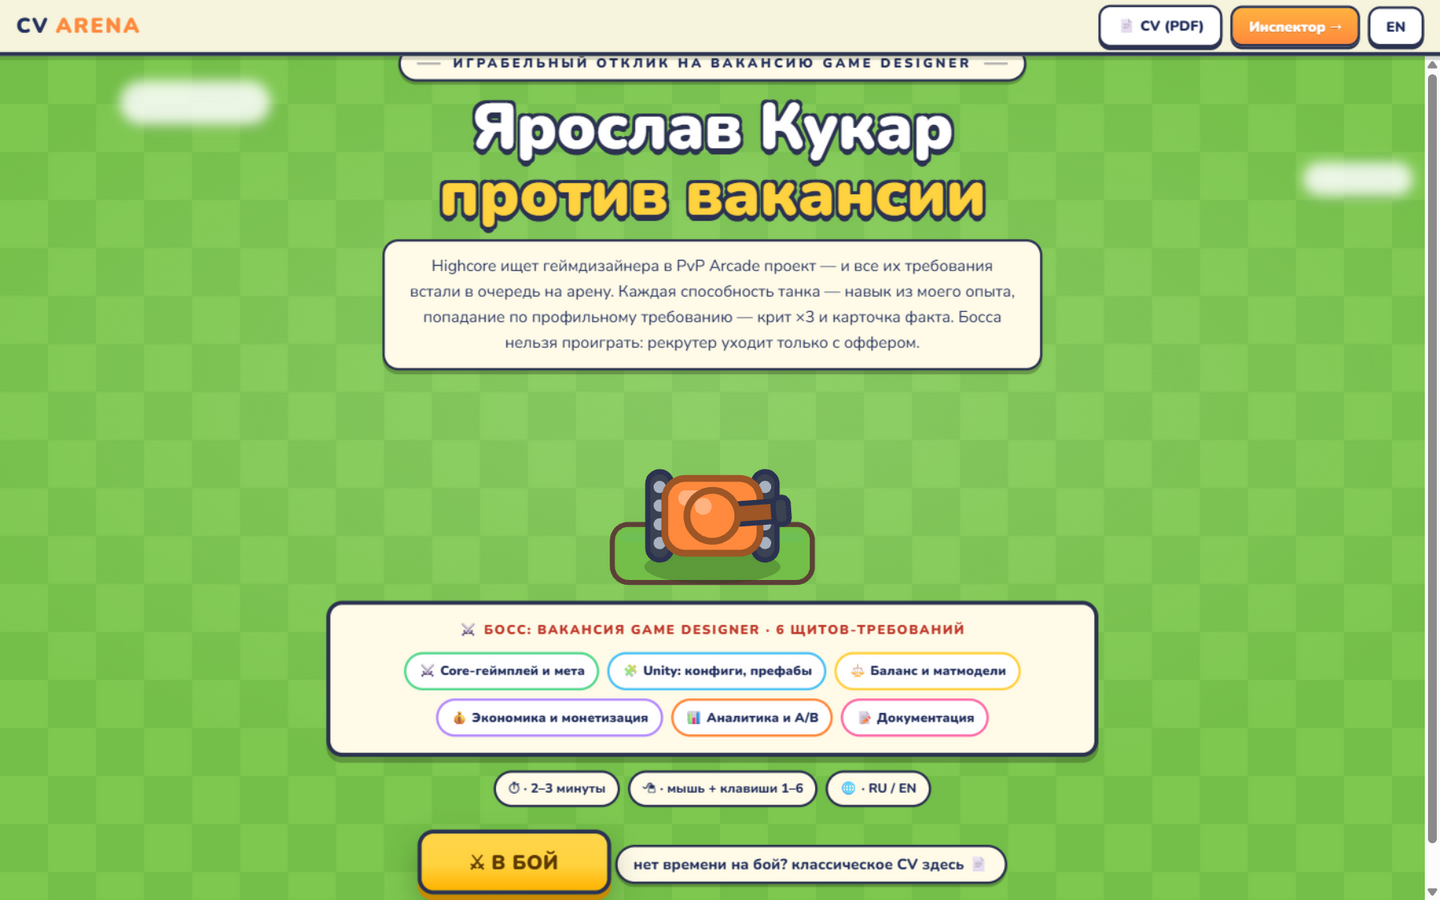
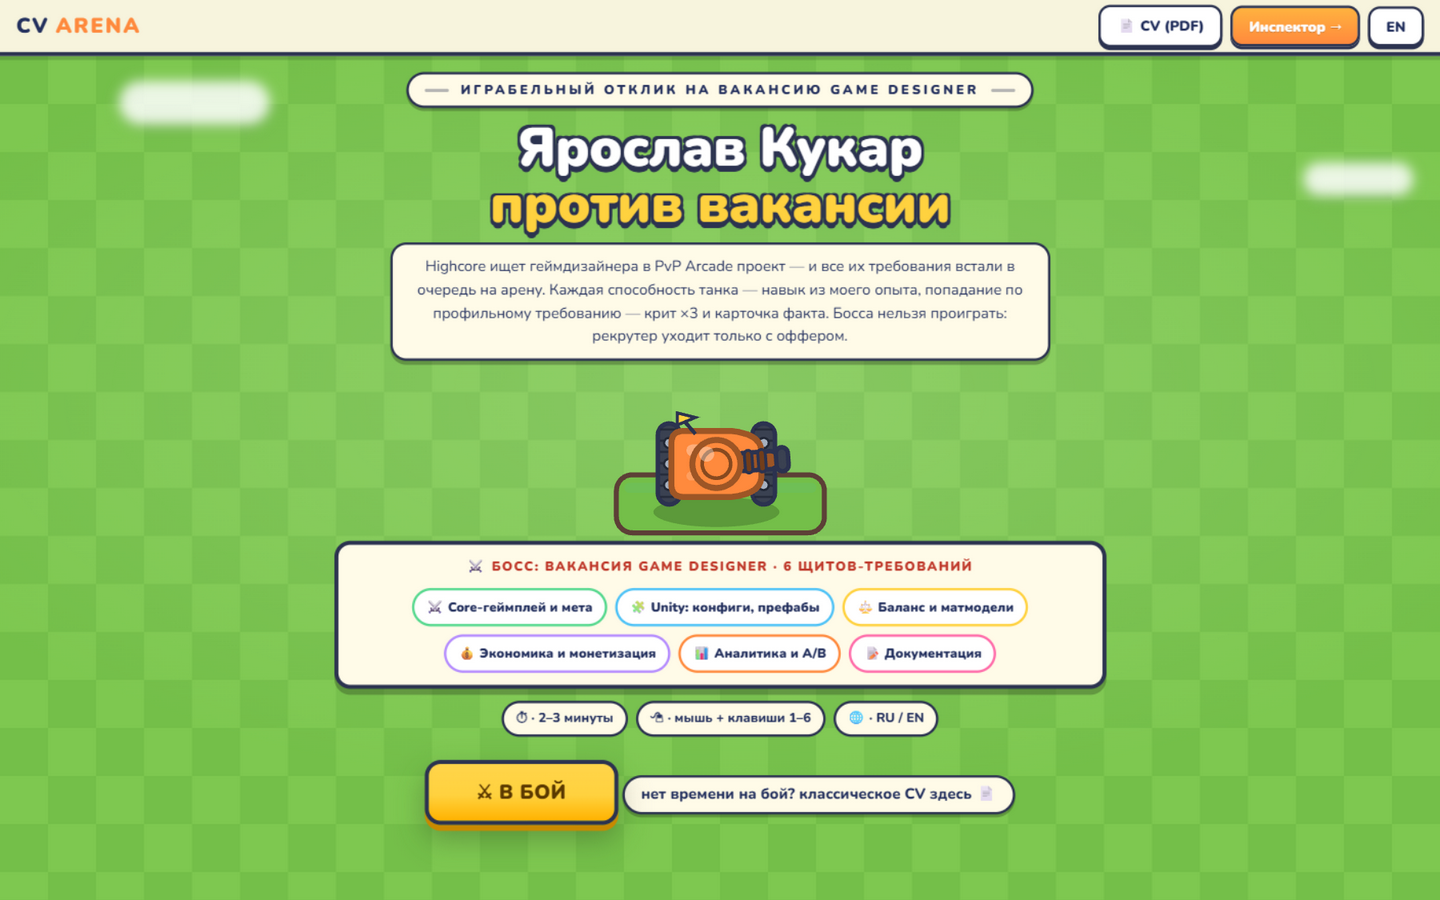
довёл читаемость: имя и хотбар целиком, обводка текста; танк с клином, флажком и гофрой

Changed region(s): [[0.2188, 0.0622, 0.7812, 1.0], [0.9688, 0.0622, 1.0, 1.0]]

diff --git a/js/game.js b/js/game.js
@@ -18,38 +18,66 @@ function shade(hex, f = 0.62) {
   return (r << 16) | (g << 8) | b;
 }
 
-// мультяшный танк в духе Tanks A Lot: толстая обводка, катки, купол-башня, морда у босса
+// мультяшный танк в духе Tanks A Lot: клиновидный нос, катки в ленте,
+// купол с кольцом, гофра ствола, флажок — и сердитая морда у босса
 export function makeTank(color, scale = 1, opts = {}) {
   const c = new Container();
   const dark = shade(color, 0.62);
+  const darker = shade(color, 0.45);
 
   const shadow = new Graphics();
-  shadow.ellipse(0, 30, 40, 10).fill({ color: 0x1e3a12, alpha: 0.28 });
+  shadow.ellipse(0, 32, 42, 10).fill({ color: 0x1e3a12, alpha: 0.28 });
   c.addChild(shadow);
 
+  // гусеницы: скруглённая лента с поперечными сегментами и катками
   const mkTread = (x) => {
     const t = new Graphics();
-    t.roundRect(x, -26, 14, 52, 7).fill({ color: 0x3b4252 }).stroke({ width: 3, color: OUTLINE });
-    for (let wy = -17; wy <= 17; wy += 11) {
-      t.circle(x + 7, wy, 3.6).fill({ color: 0xa8b2c1 });
+    t.roundRect(x, -27, 15, 54, 7.5).fill({ color: 0x3b4252 }).stroke({ width: 3, color: OUTLINE });
+    for (let wy = -23; wy <= 23; wy += 7.5) {
+      t.moveTo(x + 1.5, wy).lineTo(x + 13.5, wy).stroke({ width: 1.5, color: 0x222836, alpha: 0.8 });
+    }
+    for (let wy = -14; wy <= 14; wy += 14) {
+      t.circle(x + 7.5, wy, 3.4).fill({ color: 0xa8b2c1 }).stroke({ width: 1.5, color: 0x222836 });
     }
     return t;
   };
-  c.addChild(mkTread(-38), mkTread(24));
+  c.addChild(mkTread(-39), mkTread(24));
 
+  // корпус: тракторный нос-клин (спереди уже), задняя часть шире
   const body = new Graphics();
-  body.roundRect(-28, -22, 56, 44, 12).fill({ color }).stroke({ width: 4, color: dark });
-  body.roundRect(-20, -15, 18, 9, 4).fill({ color: 0xffffff, alpha: 0.35 });
+  body.moveTo(-30, -14);
+  body.quadraticCurveTo(-30, -22, -22, -22);
+  body.lineTo(10, -22);
+  body.quadraticCurveTo(30, -20, 30, -8);
+  body.lineTo(30, 8);
+  body.quadraticCurveTo(30, 20, 10, 22);
+  body.lineTo(-22, 22);
+  body.quadraticCurveTo(-30, 22, -30, 14);
+  body.closePath();
+  body.fill({ color }).stroke({ width: 4, color: dark });
+  body.roundRect(-20, -13, 24, 8, 4).fill({ color: 0xffffff, alpha: 0.32 });
+  body.roundRect(-20, 5, 16, 6, 3).fill({ color: 0xffffff, alpha: 0.18 });
   c.addChild(body);
+
+  // флажок на антенне — как у новичка в Tanks A Lot
+  const flag = new Graphics();
+  flag.moveTo(-14, -20).lineTo(-26, -34).stroke({ width: 2.5, color: OUTLINE });
+  flag.moveTo(-26, -34).lineTo(-14, -31).lineTo(-26, -26).closePath()
+    .fill({ color: 0xffd23f }).stroke({ width: 2, color: OUTLINE });
+  c.addChild(flag);
 
   const turret = new Container();
   const barrel = new Graphics();
-  barrel.roundRect(10, -6, 32, 12, 6).fill({ color: dark }).stroke({ width: 3, color: OUTLINE });
-  barrel.roundRect(36, -8, 9, 16, 4).fill({ color: 0x3b4252 }).stroke({ width: 3, color: OUTLINE });
+  barrel.roundRect(12, -6, 30, 12, 6).fill({ color: dark }).stroke({ width: 3, color: OUTLINE });
+  // гофра-кольца на стволе
+  barrel.roundRect(19, -7.5, 5, 15, 2.5).fill({ color: darker }).stroke({ width: 2, color: OUTLINE });
+  barrel.roundRect(28, -7.5, 5, 15, 2.5).fill({ color: darker }).stroke({ width: 2, color: OUTLINE });
+  barrel.roundRect(40, -8, 8, 16, 4).fill({ color: 0x3b4252 }).stroke({ width: 3, color: OUTLINE });
   turret.addChild(barrel);
   const dome = new Graphics();
-  dome.circle(0, 0, 15).fill({ color }).stroke({ width: 4, color: dark });
-  dome.circle(-5, -6, 5).fill({ color: 0xffffff, alpha: 0.35 });
+  dome.circle(0, 0, 16).fill({ color }).stroke({ width: 4, color: dark });
+  dome.circle(0, 0, 9.5).stroke({ width: 2.5, color: darker, alpha: 0.85 });
+  dome.circle(-6, -7, 5).fill({ color: 0xffffff, alpha: 0.35 });
   turret.addChild(dome);
   if (opts.eyes) {
     const face = new Graphics();
@@ -57,7 +85,7 @@ export function makeTank(color, scale = 1, opts = {}) {
     face.circle(6, 4, 4).fill({ color: 0xffffff }).stroke({ width: 2, color: OUTLINE });
     face.circle(-4, 5, 1.8).fill({ color: 0x1d2333 });
     face.circle(7, 5, 1.8).fill({ color: 0x1d2333 });
-    face.moveTo(-11, -3).lineTo(-2, 0).moveTo(12, -3).lineTo(3, 0).stroke({ width: 2.5, color: OUTLINE });
+    face.moveTo(-11, -4).lineTo(-2, -1).moveTo(12, -4).lineTo(3, -1).stroke({ width: 2.5, color: OUTLINE });
     turret.addChild(face);
   }
   c.addChild(turret);

diff --git a/style.css b/style.css
@@ -162,7 +162,7 @@ button { font-family: inherit; cursor: pointer; }
 
 #screen-intro {
   display: flex;
-  align-items: center;
+  align-items: flex-start;
   justify-content: center;
   background:
     radial-gradient(90% 70% at 50% 40%, rgba(255, 255, 255, 0.14), transparent 70%),
@@ -205,7 +205,9 @@ button { font-family: inherit; cursor: pointer; }
 .intro-inner {
   position: relative;
   max-width: 820px;
-  padding: 32px 24px 48px;
+  width: 100%;
+  margin: 0 auto;
+  padding: 16px 24px 40px;
   text-align: center;
   z-index: 1;
 }
@@ -237,12 +239,12 @@ button { font-family: inherit; cursor: pointer; }
 }
 
 .intro-title {
-  font-size: clamp(36px, 6vw, 64px);
+  font-size: clamp(30px, 5vw, 54px);
   font-weight: 900;
   line-height: 1.04;
   letter-spacing: -0.5px;
   color: #ffffff;
-  margin-bottom: 12px;
+  margin-bottom: 10px;
   text-shadow:
     -3px -3px 0 var(--ink), 3px -3px 0 var(--ink),
     -3px 3px 0 var(--ink), 3px 3px 0 var(--ink),
@@ -252,25 +254,26 @@ button { font-family: inherit; cursor: pointer; }
 
 .intro-sub {
   color: var(--ink-soft);
-  font-size: 16px;
-  line-height: 1.6;
+  font-size: 15px;
+  line-height: 1.55;
   max-width: 660px;
-  margin: 0 auto 16px;
+  margin: 0 auto 12px;
   background: var(--cream);
   border: 3px solid var(--ink);
   border-radius: var(--r-lg);
-  padding: 12px 20px;
+  padding: 10px 18px;
   box-shadow: 0 4px 0 rgba(30, 40, 20, 0.3);
 }
 
-.intro-tank { display: flex; justify-content: center; margin: 0 0 4px; }
+.intro-tank { display: flex; justify-content: center; margin: 0 0 0; }
+.intro-tank canvas { display: block; }
 
 .intro-boss {
   background: var(--cream);
   border: 4px solid var(--ink);
   border-radius: var(--r-lg);
-  padding: 16px 20px;
-  margin-bottom: 14px;
+  padding: 12px 16px;
+  margin-bottom: 12px;
   box-shadow: 0 6px 0 rgba(30, 40, 20, 0.3);
 }
 
@@ -461,18 +464,23 @@ button { font-family: inherit; cursor: pointer; }
 
 #hotbar {
   position: absolute;
-  left: 50%;
-  transform: translateX(-50%);
+  left: 0;
+  right: 0;
+  margin: 0 auto;
+  width: max-content;
+  max-width: calc(100vw - 24px);
   bottom: 16px;
   display: flex;
   gap: 8px;
+  flex-wrap: wrap;
+  justify-content: center;
   z-index: var(--z-hud);
 }
 
 .ability {
   position: relative;
-  width: 104px;
-  padding: 8px 8px 8px;
+  min-width: 96px;
+  padding: 8px 12px 8px;
   border-radius: var(--r-lg);
   border: 3px solid var(--ink);
   color: #ffffff;
@@ -500,20 +508,25 @@ button { font-family: inherit; cursor: pointer; }
 .ability .ico { font-size: 22px; line-height: 1; filter: drop-shadow(0 2px 0 rgba(0, 0, 0, 0.25)); }
 .ability .name {
   display: block;
-  font-size: 12px;
+  font-size: 12.5px;
   font-weight: 900;
   margin-top: 7px;
   white-space: nowrap;
-  text-shadow: 0 2px 0 rgba(20, 25, 45, 0.4);
+  text-shadow:
+    -1.5px 0 0 rgba(35, 40, 70, 0.55), 1.5px 0 0 rgba(35, 40, 70, 0.55),
+    0 -1.5px 0 rgba(35, 40, 70, 0.55), 0 1.5px 0 rgba(35, 40, 70, 0.55),
+    0 2.5px 0 rgba(35, 40, 70, 0.4);
 }
 .ability .target {
   display: block;
-  font-size: 12px;
+  font-size: 11.5px;
   font-weight: 800;
-  color: rgba(255, 255, 255, 0.95);
+  color: rgba(255, 255, 255, 0.97);
   margin-top: 2px;
   white-space: nowrap;
-  text-shadow: 0 2px 0 rgba(20, 25, 45, 0.4);
+  text-shadow:
+    -1.5px 0 0 rgba(35, 40, 70, 0.55), 1.5px 0 0 rgba(35, 40, 70, 0.55),
+    0 -1.5px 0 rgba(35, 40, 70, 0.55), 0 1.5px 0 rgba(35, 40, 70, 0.55);
 }
 .ability .cd-overlay {
   position: absolute;
@@ -976,8 +989,8 @@ button { font-family: inherit; cursor: pointer; }
   .insp-hierarchy { width: 208px; }
   .comp-row .k { width: 128px; }
   .victory-stats { grid-template-columns: repeat(2, 1fr); }
-  .ability { width: 84px; }
   .ability .name { font-size: 12px; }
+  .ability .target { font-size: 11px; }
   .hud-hint { display: none; }
 }
 
@@ -991,7 +1004,7 @@ button { font-family: inherit; cursor: pointer; }
   }
   .tb-btn { padding: 8px 12px; font-size: 13px; }
   #topbar { padding: 0 8px; }
-  .ability { width: 76px; padding: 8px 6px; }
+  .ability { padding: 6px 8px; }
   .ability .target { display: none; }
-  .intro-inner { padding: 32px 16px; }
+  .intro-inner { padding: 12px 12px 32px; }
 }

diff --git a/js/preview.js b/js/preview.js
@@ -8,7 +8,7 @@ export async function createTankPreview(el, color) {
   const app = new Application();
   await app.init({
     width: 300,
-    height: 210,
+    height: 168,
     backgroundAlpha: 0,
     antialias: true,
     resolution: Math.min(window.devicePixelRatio || 1, 2),
@@ -17,18 +17,18 @@ export async function createTankPreview(el, color) {
   el.appendChild(app.canvas);
 
   const pad = new Graphics();
-  pad.roundRect(50, 138, 200, 58, 16).fill({ color: 0x74bf49 }).stroke({ width: 5, color: 0x5d4037 });
-  pad.roundRect(58, 146, 184, 10, 5).fill({ color: 0x6fbf56 });
+  pad.roundRect(46, 102, 208, 58, 16).fill({ color: 0x74bf49 }).stroke({ width: 5, color: 0x5d4037 });
+  pad.roundRect(54, 110, 192, 10, 5).fill({ color: 0x6fbf56 });
   app.stage.addChild(pad);
 
-  const tank = makeTank(color, 1.7);
-  tank.position.set(150, 128);
+  const tank = makeTank(color, 1.5);
+  tank.position.set(146, 90);
   app.stage.addChild(tank);
 
   let t = 0;
   app.ticker.add((tk) => {
     t += tk.deltaMS / 1000;
-    tank.y = 128 + Math.sin(t * 2) * 4;
+    tank.y = 90 + Math.sin(t * 2) * 3;
     tank.turret.rotation = -0.08 + Math.sin(t * 0.7) * 0.06;
   });
 }

diff --git a/js/ui.js b/js/ui.js
@@ -28,8 +28,8 @@ const abilityButtons = new Map();
 const deadChips = new Set();
 let toastTimer = null;
 
-// светлее оттенок цвета способности для градиента кнопки
-function lighten(hex, f = 1.22) {
+// чуть светлее оттенок цвета способности для градиента кнопки
+function lighten(hex, f = 1.1) {
   const n = parseInt(hex.slice(1), 16);
   const r = Math.min(255, Math.round(((n >> 16) & 255) * f));
   const g = Math.min(255, Math.round(((n >> 8) & 255) * f));
